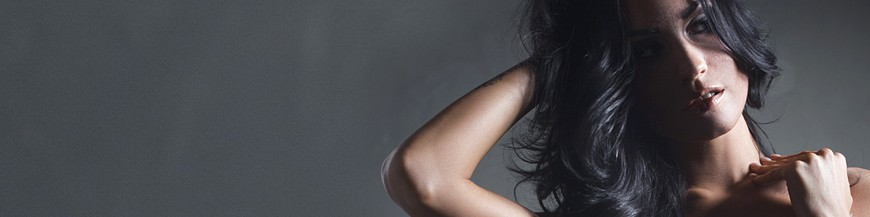
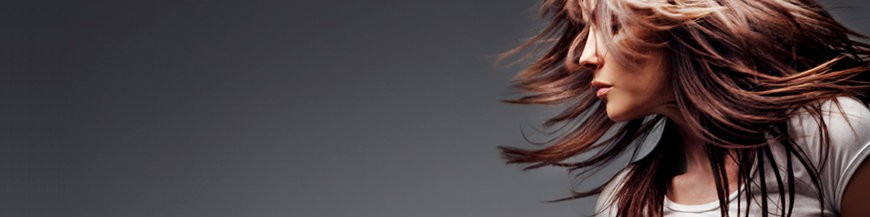
[*] Install : updated category images

diff --git a/install-dev/fixtures/fashion/img/c/resize.php b/install-dev/fixtures/fashion/img/c/resize.php
@@ -1,0 +1,13 @@
+<?php
+
+include('../../../../../config/config.inc.php');
+ini_set('max_execution_time', 7200);
+ini_set('memory_limit', '512M');
+
+$types = ImageType::getImagesTypes('categories');
+$files = scandir(dirname(__FILE__));
+foreach ($files as $file)
+	if (preg_match('/^([a-z0-9-_]+)\.jpg$/i', $file, $match) && !preg_match('/default\.jpg$/i', $file))
+		foreach ($types as $type)
+			if (!file_exists($match[1].'-'.$type['name'].'.jpg'))
+				ImageManager::resize($file, $match[1].'-'.$type['name'].'.jpg', $type['width'], $type['height'], 'jpg', true);
